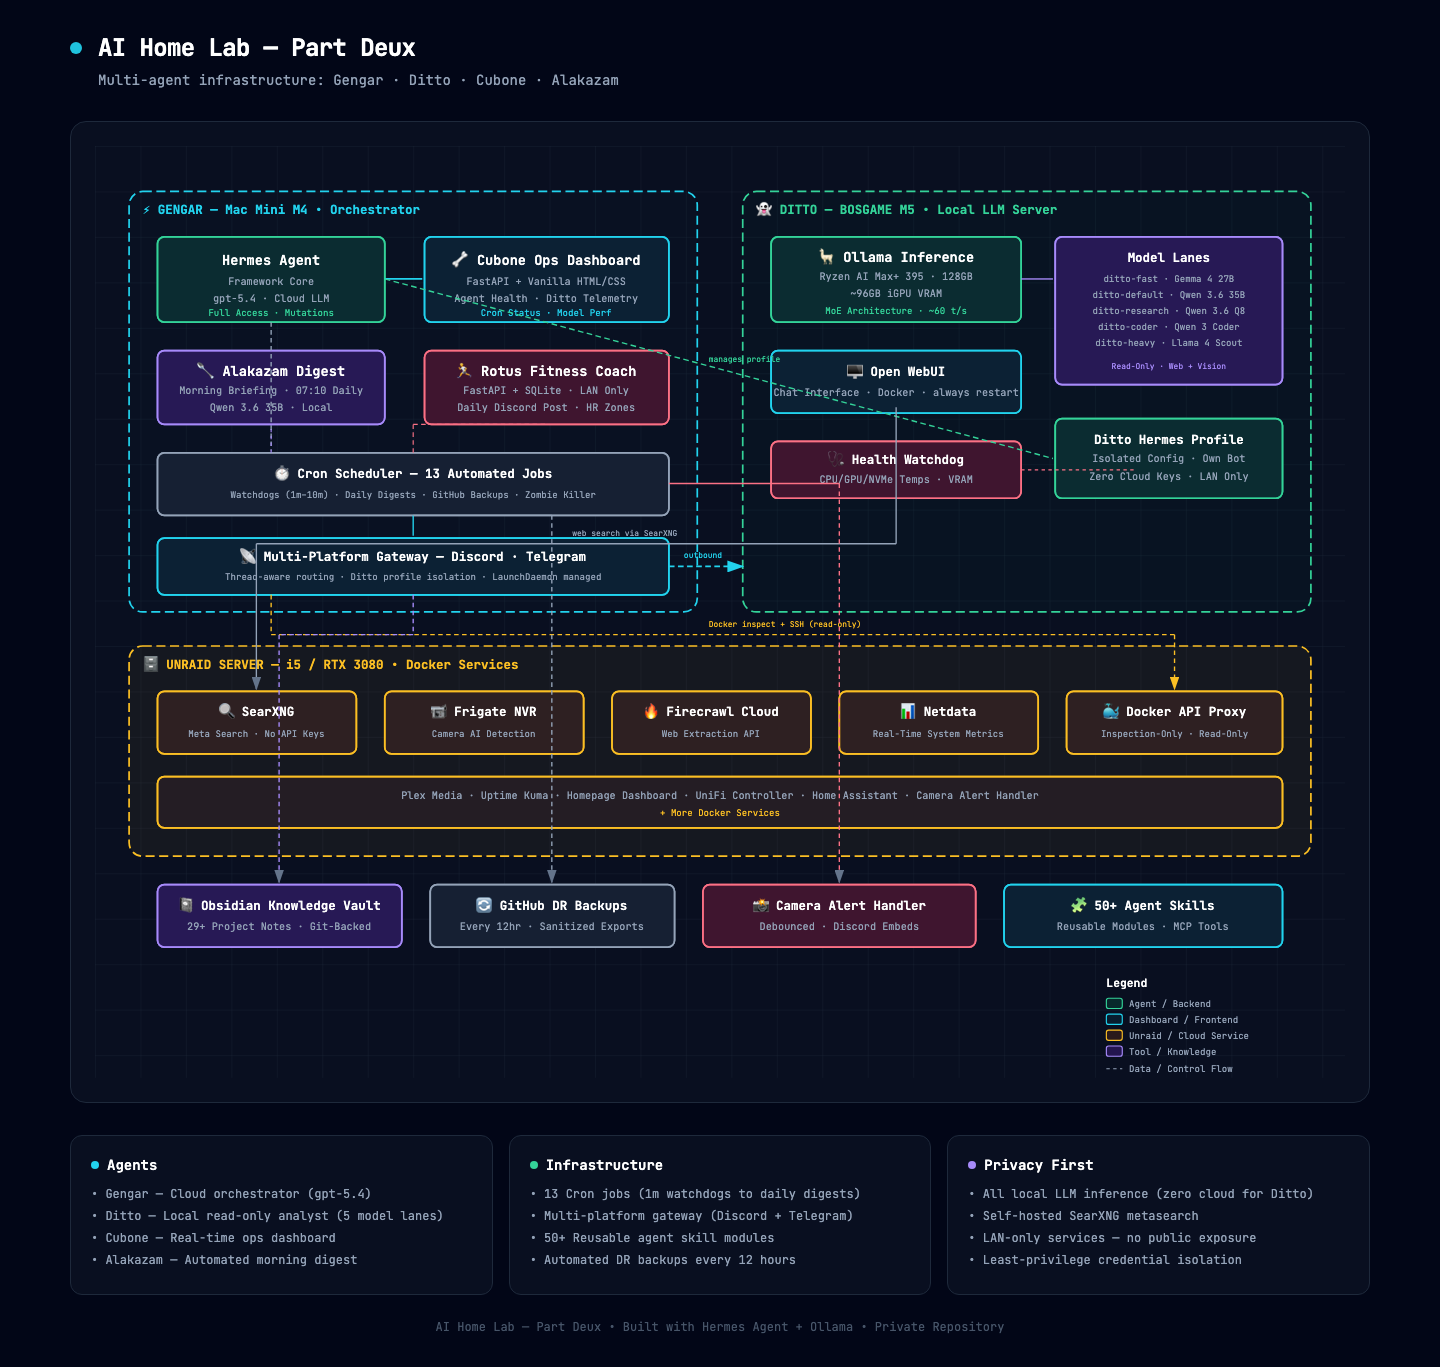
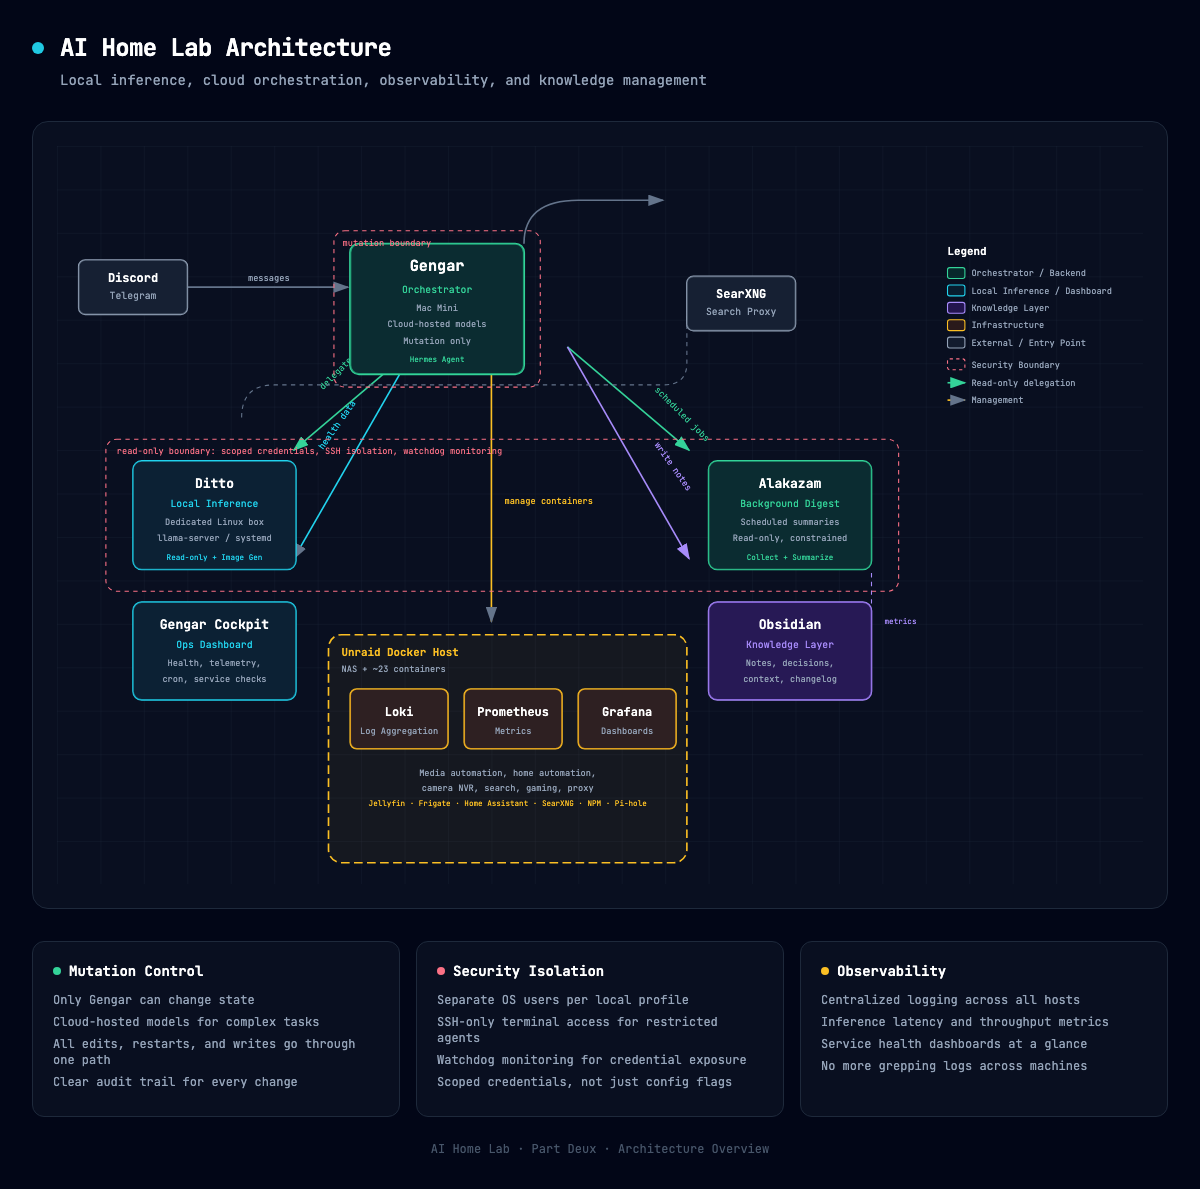
Update architecture diagram, cockpit screenshot, add homepage dashboard asset

diff --git a/README.md b/README.md
@@ -176,7 +176,7 @@ Scheduled morning digests and automated reporting. Alert analysis and summarizat
 
 I am not pretending this is done.
 
-Current areas I am pushing on: additional local model lanes for coding and research tasks, better dashboards for inference-specific telemetry, more useful reporting that does not sound machine-generated, practical use of voice and scheduled background agents, deeper benchmarking of local models on real tasks instead of benchmark scores, and figuring out where local really earns its keep versus where hosted is still the better answer.
+Current areas I am pushing on: additional local model lanes for coding and research tasks, a consolidated service dashboard that brings together homelab health, inference telemetry, and agent status in one view, more useful reporting that does not sound machine-generated, practical use of voice and scheduled background agents, deeper benchmarking of local models on real tasks instead of benchmark scores, and figuring out where local really earns its keep versus where hosted is still the better answer.
 
 ## Privacy and scope
 
